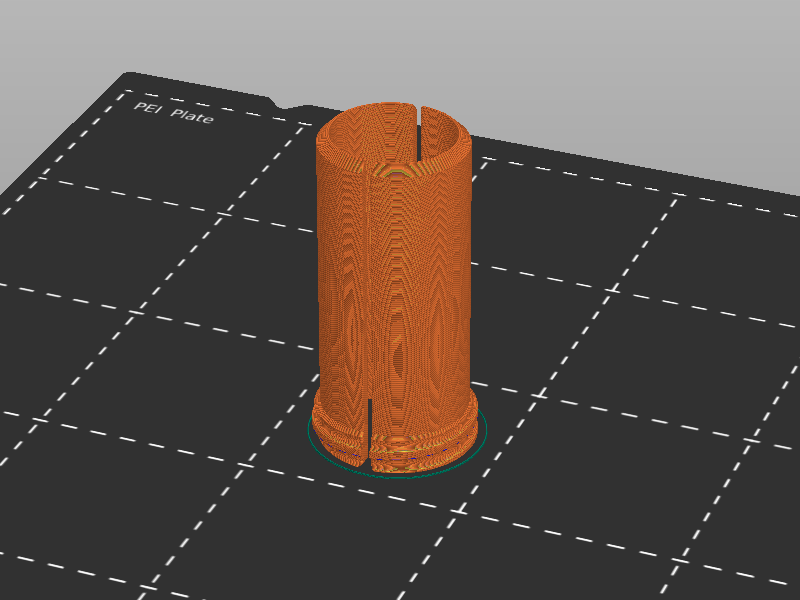
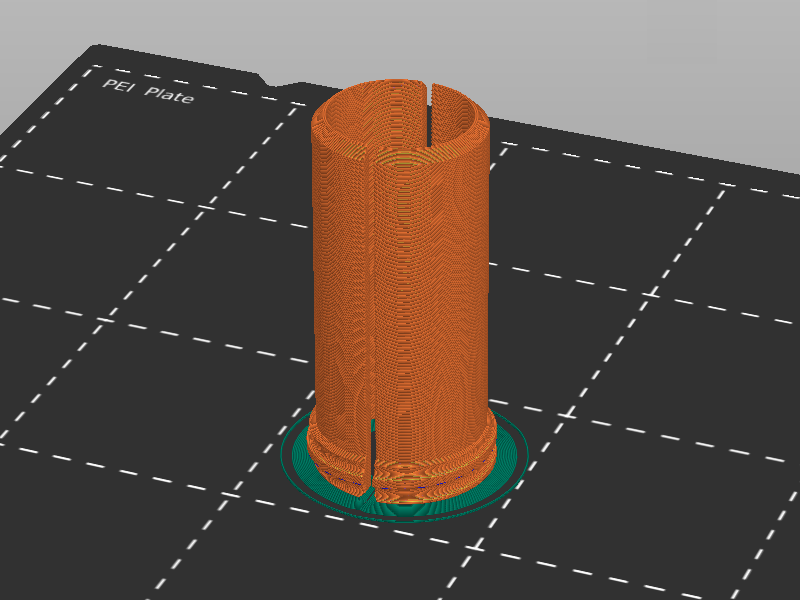
Add brim note to SV06 spool holder remix documentation

diff --git a/sovol-sv06-plus/spool-holder-remix/README.md b/sovol-sv06-plus/spool-holder-remix/README.md
@@ -46,8 +46,9 @@ This is configurable in the OpenSCAD model if you prefer a different length.
 
 ## Printing
 
-All of these parts print as oriented in the model files (upright) with no
-supports and no special instructions.
+All of these parts print as oriented in the model files (upright). No supports
+are needed for any of the parts. The stock filament barrel model and the spool
+barrel fittings may need a brim, depending on your bed adhesion.
 
 Concentric top and bottom infill patterns make a nice aesthetic for these parts,
 but this is optional.
